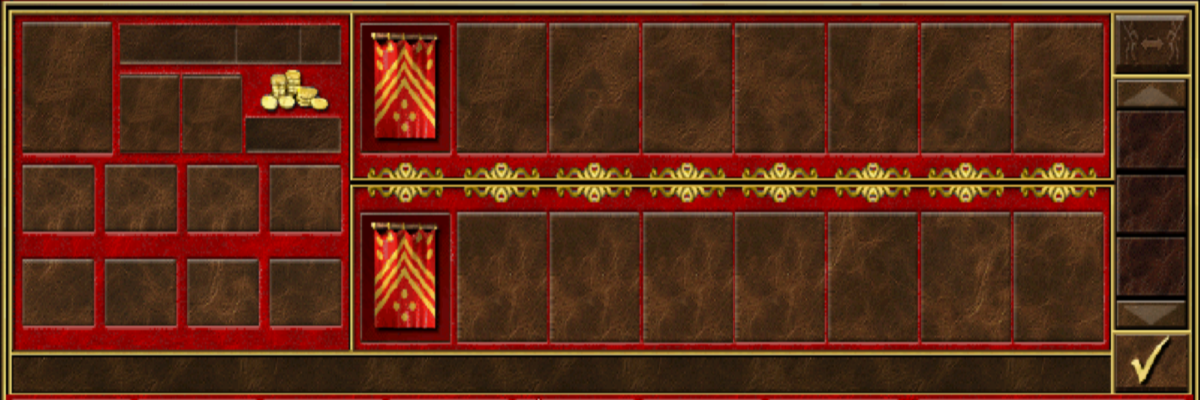
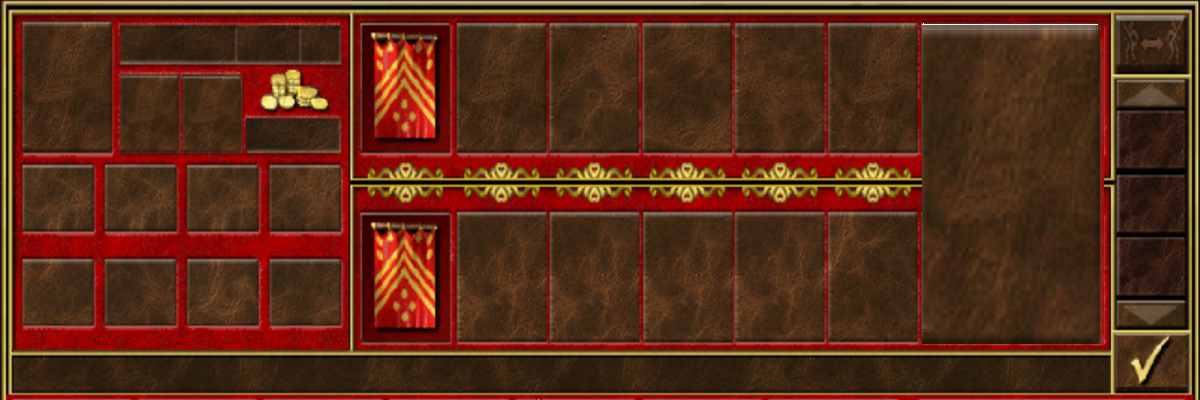
Some of the city working process

Changed region(s): [[0.7708, 0.06, 0.925, 0.87]]

diff --git a/CosherCity.py b/CosherCity.py
@@ -19,7 +19,7 @@ class City:
         self.panorama = 0
         self.buy_unit = 1
         self.buy_hero = 2
-        self.upgrade_city = 3
+        self.army_interact = 3
         self.unit = None    # Заглушка
 
         self.name = name
@@ -60,9 +60,6 @@ class City:
             self.able_archer = 10
             self.able_cavalryman = 4
 
-
-    # Отрисовка разных видов интерфейса
-    # Отрисовка найма юнитов
     def draw_buy_unit_window(self, unit, able, back_ground):
         screen.blit(self.buy_unit_surf, (164, 143))
         screen.blit(back_ground, (511, 262))
@@ -151,19 +148,36 @@ class City:
             surf = pygame.image.load(path + str(obj) + '.png')
         return surf
 
-    def check_click_garrison(self, x, y):
+    def check_click_with_army(self, x, y):
+        check = '', 5
         if 586 < y < 713:
             if 457 < x < 547:
-                return 0
-            if 550 < x < 639:
-                return 1
-            if 642 < x < 728:
-                return 2
-            if 735 < x < 823:
-                return 3
-            if 829 < x < 914:
-                return 4
-        return 5
+                check = 'garrison', 0
+            elif 550 < x < 639:
+                check = 'garrison', 1
+            elif 642 < x < 728:
+                check = 'garrison', 2
+            elif 735 < x < 823:
+                check = 'garrison', 3
+            elif 829 < x < 914:
+                check = 'garrison', 4
+            else:
+                check = 'garrison', 5
+        elif 775 < y < 903:
+            if 457 < x < 544:
+                check = 'army', 0
+            elif 549 < x < 639:
+                check = 'army', 1
+            elif 544 < x < 713:
+                check = 'army', 2
+            elif 736 < x < 823:
+                check = 'army', 3
+            elif 828 < x < 915:
+                check = 'army', 4
+            else:
+                check = 'army', 5
+        return check
+
 
     def check_unit(self, unit):
         if unit.name == 'Скелеты':
@@ -266,41 +280,89 @@ class CosherCity(City):
 
 city = CosherCity(name='Бакареш', x=2, y=2, tavern=0, level=3, wall=3, skeleton=1,
                   zombie=1, leach=1, horseman_of_the_apocalypse=0,
-                  necromancer=0, garrison=['', '', '', '', '', '', ''], hero_in_garrison=None, entered_hero = Zuldan(2, 2), hero1=None, hero2=None)
+                  necromancer=0, garrison=['', '', '', '', ''], hero_in_garrison=None, entered_hero = Zuldan(2, 2), hero1=None, hero2=None)
 run = 1
 
 while run:
+
+
+    if type(city.active) == tuple:
+        pygame.draw.rect(screen, (255, 255, 255), (20, 20, 20, 20))
+
+    if city.active == city.panorama:
+        city.draw_panorama()
+
+    if city.active == city.buy_unit:
+        city.draw_buy_unit_window(city.unit, city.able, city.buy_unit_bg_surf)
+
+    pygame.display.flip()
+
     for event in pygame.event.get():
         if event.type == pygame.QUIT:
             run = 0
         if event.type == pygame.MOUSEBUTTONDOWN:
             if event.button == 1:
+                if pygame.key.get_pressed()[pygame.K_LCTRL]:
+                    print('asa')
+                    check = city.check_click_with_army(event.pos[0], event.pos[1])
+                    if check[1] != 5:
+                        if check[0] == 'garrison':
+                            if city.garrison[check[1]].count > 1:
+                                city.garrison[check[1]].count -= 1
+                                for i in range(len(city.garrison)):
+                                    if city.garrison[i] == '':
+                                        city.garrison[i] = city.garrison[check[1]]
+                                        city.garrison[i].count = 1
+                                        city.active = city.panorama
+                                        break
+
                 if type(city.active) == tuple:
-                    if city.active[0] in city.garrison:
-                        check = city.check_click_garrison(event.pos[0], event.pos[1])
-                        if check < 5:
-                            print(city.active)
-                            if check == city.active[1]:
-                                pass
-                            elif city.garrison[check] == '':
-                                city.garrison[check] = city.active[0]
-                                city.garrison[city.active[1]] = ''
-                                city.active = city.panorama
-                            elif city.garrison[check].name == city.active[0].name:
-                                city.garrison[check].count += city.active[0].count
-                                city.garrison[city.active[1]] = ''
-                                city.active = city.panorama
-                            else:
-                                city.garrison[check], city.garrison[city.active[1]] = city.garrison[city.active[1]], city.garrison[check]
-                                city.active = city.panorama
-                        print(check, 's',
-                              city.garrison[check], 's',
-                              city.garrison[0], 's',
-                              city.active)
+                    check = city.check_click_with_army(event.pos[0], event.pos[1])
+
+                    if check == city.active:
                         break
+                    if check[1] == 5:
+                        city.active = city.panorama
+                        break
+                    elif city.active[0] == 'garrison' and check[0] == 'army':
+                        if city.entered_hero.army[check[1]] == '':
+                            city.entered_hero.army[check[1]] = city.garrison[city.active[1]]
+                            city.garrison[city.active[1]] = ''
+                        elif city.entered_hero.army[check[1]].name == city.garrison[city.active[1]].name:
+                            city.entered_hero.army[check[1]].count +=city.garrison[city.active[1]].count
+                            city.garrison[city.active[1]] = ''
+
+                    elif city.active[0] == 'army' and check[0] == 'garrison':
+                        if city.garrison[check[1]] == '':
+                            city.garrison[check[1]] = city.entered_hero.army[city.active[1]]
+                            city.entered_hero.army[city.active[1]] = ''
+                        elif city.garrison[check[1]].name == city.entered_hero.army[city.active[1]].name:
+                            city.garrison[check[1]].count += city.entered_hero.army[city.active[1]].count
+                            city.entered_hero.army[city.active[1]] = ''
+
+                    elif city.active[0] == 'army' and check[0] == 'army':
+                        if city.entered_hero.army[check[1]] == '':
+                            city.entered_hero.army[check[1]] = city.entered_hero.army[city.active[1]]
+                            city.entered_hero.army[city.active[1]] = ''
+                        elif city.entered_hero.army[check[1]].name == city.entered_hero.army[city.active[1]].name:
+                            city.entered_hero.army[check[1]].count += city.entered_hero.army[city.active[1]].count
+                            city.entered_hero.army[city.active[1]] = ''
+
+                    elif city.active[0] == 'garrison' and check[0] == 'garrison':
+                        if city.garrison[check[1]] == '':
+                            city.garrison[check[1]] = city.garrison[city.active[1]]
+                            city.garrison[city.active[1]] = ''
+                        elif city.garrison[check[1]].name == city.garrison[city.active[1]].name:
+                            city.garrison[check[1]].count += city.garrison[city.active[1]].count
+                            city.garrison[city.active[1]] = ''
+
+                    city.active = city.panorama
+                    break
+
+
 
                 if city.active == city.panorama:
-                    # print(event.pos[0])
+                    print('x=', event.pos[0], ', y=', event.pos[1])
                     if 100 < event.pos[0] < 296 and 400 < event.pos[1] < 530:
                         city.active = city.buy_unit
                         city.unit = Skeleton(city.able_skeletons)
@@ -316,10 +378,18 @@ while run:
                         city.unit = Leach(city.able_leaches)
                         city.able = city.able_leaches
 
-                    check = city.check_click_garrison(event.pos[0], event.pos[1])
-                    if check < 5:
-                        if city.garrison[check] != '':
-                            city.active = (city.garrison[check], check)
+                    check = city.check_click_with_army(event.pos[0], event.pos[1])
+                    if check[1] != 5:
+                        if check[0] == 'army':
+                            if city.entered_hero.army[check[1]] == '':
+                                check = None
+                        elif check[0] == 'garrison':
+                            if city.garrison[check[1]] == '':
+                                check = None
+                        if check == None:
+                            pass
+                        else:
+                            city.active = check
 
                     # < -------------------------------------------------------------------------------------------------Заглушки
 
@@ -366,8 +436,6 @@ while run:
                                     city.active = city.panorama
                                     break
 
-
-
                 # Закрытие окна магазина
                 if city.active == city.buy_hero:
                     if 802 < event.pos[0] < 919 and 815 < event.pos[1] < 876:
@@ -381,13 +449,9 @@ while run:
                 elif city.active == city.panorama:
                     print("Нот энд'")  # <---------------------------------------------------------------------------------Заглушка
 
-    if city.active == city.panorama:
-        city.draw_panorama()
 
-    if city.active == city.buy_unit:
-        city.draw_buy_unit_window(city.unit, city.able, city.buy_unit_bg_surf)
 
-    pygame.display.flip()
+
 
 
 
